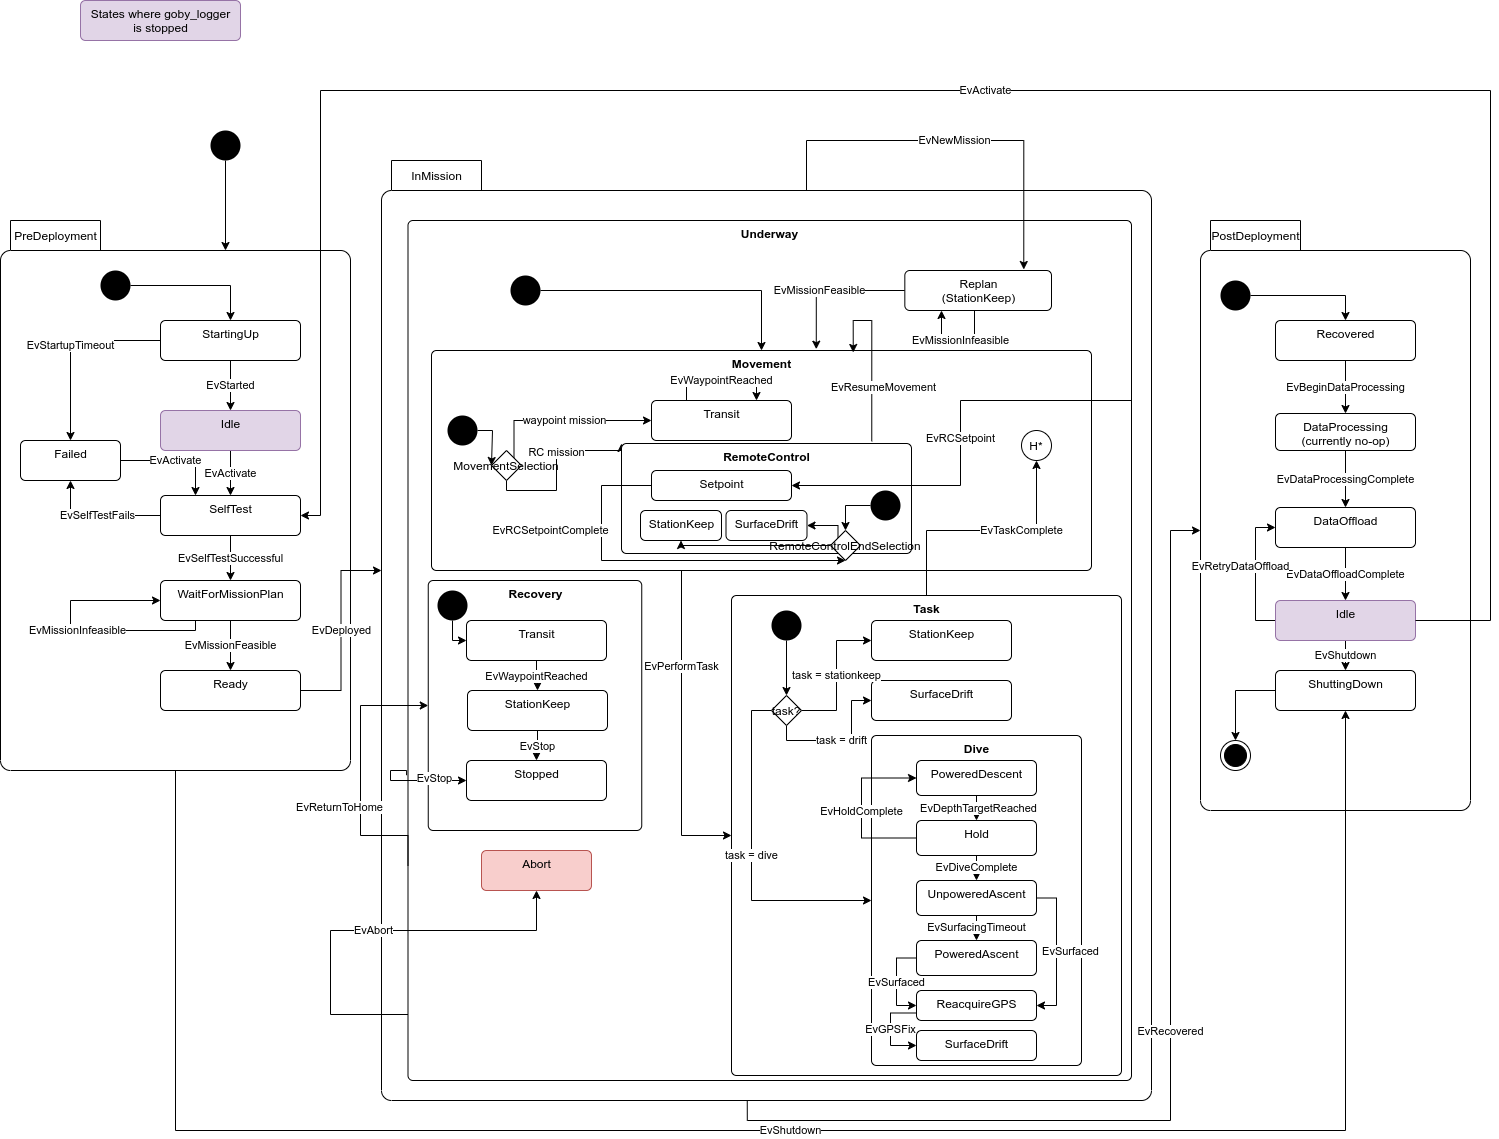
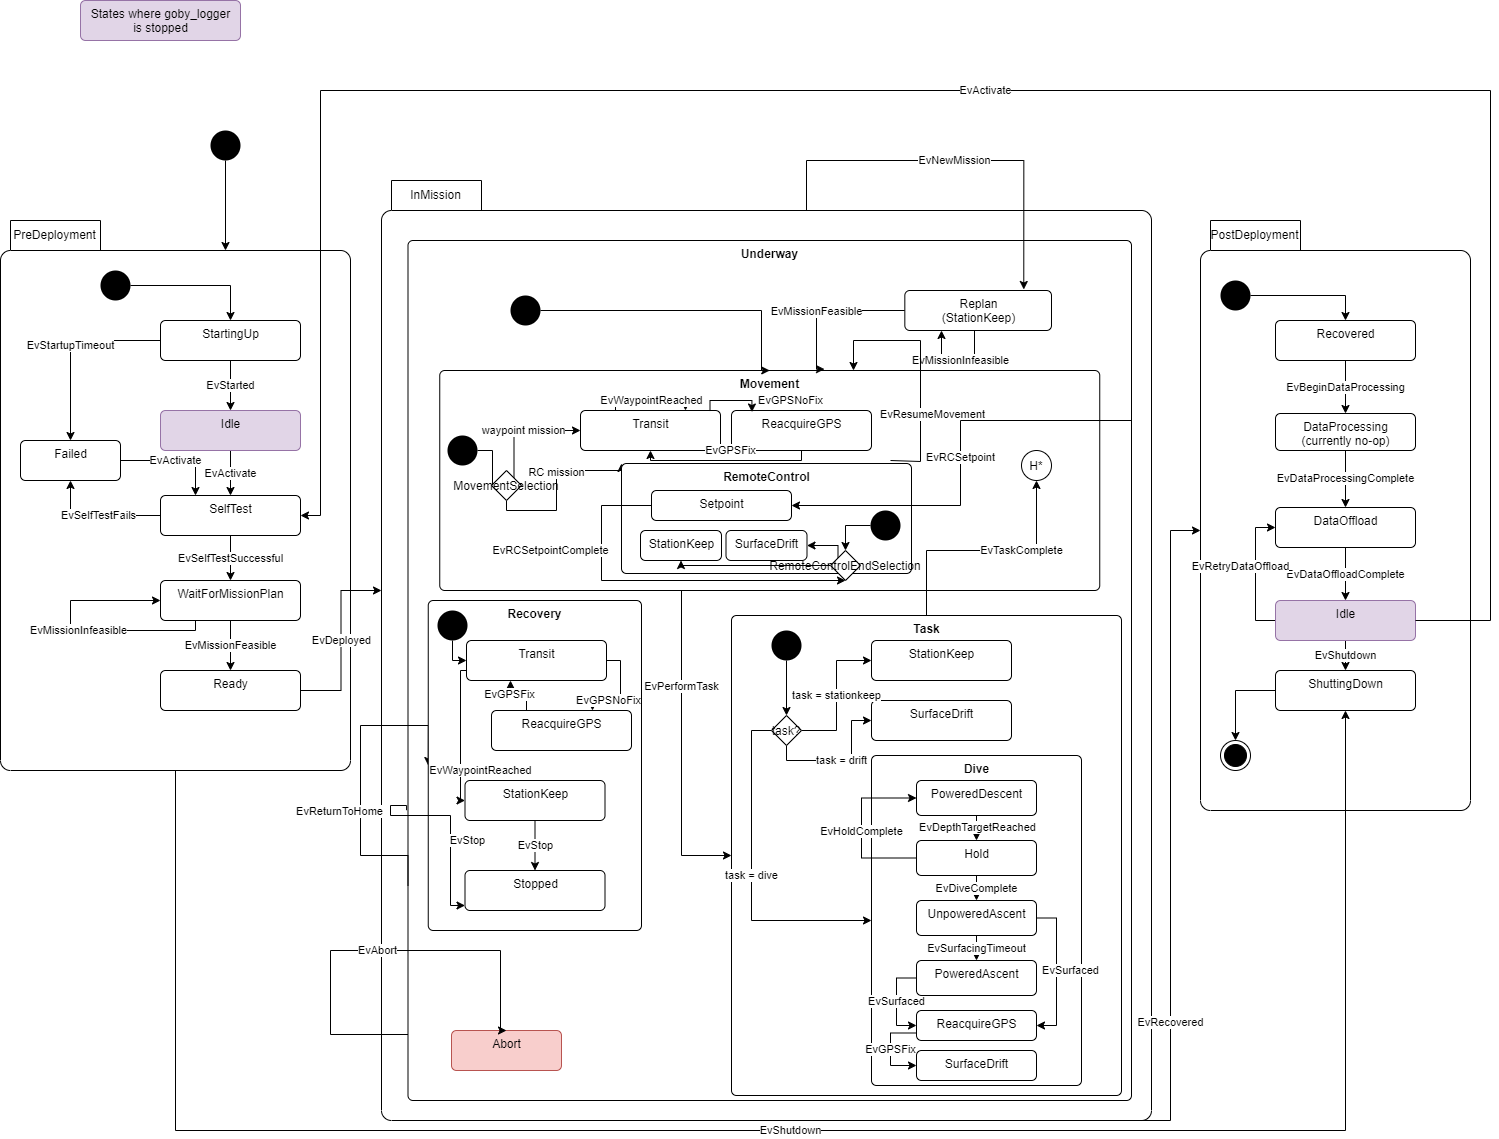
feature/Reacquire-GPS-In-Transit (#225)
* When bot is in transit mode, we check gps hdop to check if it is below 1, if not we go into reacquire gps state

* Updating documentation and then state machine so they match

* Updating state machine diagram

* Adding recovery states for transit and reacquire gps to ensure the state transitions occur base on hdop value

* Removing fusion commented out code

* Fixing logging outputs for gps fix

diff --git a/src/bin/mission_manager/app.cpp b/src/bin/mission_manager/app.cpp
@@ -238,41 +238,81 @@ jaiabot::apps::MissionManager::MissionManager()
     interprocess().subscribe<goby::middleware::groups::gpsd::tpv>(
         [this](const goby::middleware::protobuf::gpsd::TimePositionVelocity& tpv) {
             machine_->set_gps_tpv(tpv);
+        });
 
-            glog.is_debug2() && glog << "Received GPS mode: " << tpv.mode() << std::endl;
-
-            // Check mission state to make sure we are in reacquire_gps.
-            // This way the bot needs a configurable amount of checks for gps
-            // mode to be mode2d or mode3d in a row. If the gps mode deviates
-            // then the count resets.
-            if (machine_->state() == protobuf::IN_MISSION__UNDERWAY__TASK__DIVE__REACQUIRE_GPS)
+    // subscribe for GPS data (to reacquire after resurfacing)
+    interprocess().subscribe<goby::middleware::groups::gpsd::sky>(
+        [this](const goby::middleware::protobuf::gpsd::SkyView& sky) {
+            // Check mission state to make sure we are in reacquire_gps or transit.
+            if (machine_->state() == protobuf::IN_MISSION__UNDERWAY__MOVEMENT__TRANSIT ||
+                machine_->state() == protobuf::IN_MISSION__UNDERWAY__RECOVERY__TRANSIT ||
+                machine_->state() == protobuf::IN_MISSION__UNDERWAY__MOVEMENT__REACQUIRE_GPS ||
+                machine_->state() == protobuf::IN_MISSION__UNDERWAY__TASK__DIVE__REACQUIRE_GPS ||
+                machine_->state() == protobuf::IN_MISSION__UNDERWAY__RECOVERY__REACQUIRE_GPS)
             {
-                if (tpv.has_mode() &&
-                    (tpv.mode() == goby::middleware::protobuf::gpsd::TimePositionVelocity::Mode2D ||
-                     tpv.mode() == goby::middleware::protobuf::gpsd::TimePositionVelocity::Mode3D))
+                glog.is_debug2() && glog << "Received GPS HDOP: " << sky.hdop() << std::endl;
+
+                if (sky.has_hdop() && (sky.hdop() <= cfg().gps_hdop_fix()))
                 {
-                    // confirming gps is in the correct mode
-                    if (current_gps_check_incr_ < cfg().total_gps_checks())
+                    // Increment gps fix checks until we are > the threshold for confirming gps fix
+                    if (gps_fix_check_incr_ < cfg().total_gps_fix_checks())
                     {
-                        glog.is_debug2() && glog << "GPS is in the correct mode, but has not "
+                        glog.is_debug1() && glog << "GPS has a good fix, but has not "
                                                     "reached threshold for total checks"
-                                                 << std::endl;
-                        // Increment until we reach total gps checks
-                        current_gps_check_incr_++;
+                                                    " "
+                                                 << gps_fix_check_incr_ << " < "
+                                                 << cfg().total_gps_fix_checks() << std::endl;
+                        // Increment until we reach total gps fix checks
+                        gps_fix_check_incr_++;
                     }
                     else
                     {
-                        glog.is_debug2() && glog << "GPS has confirmed fix" << std::endl;
+                        glog.is_debug1() && glog << "GPS has a good fix, Post EvGPSFix, hdop is "
+                                                 << sky.hdop() << " <= " << cfg().gps_hdop_fix()
+                                                 << " Reset incr for gps degraded fix" << std::endl;
+
+                        // Post Event for gps fix
                         machine_->process_event(statechart::EvGPSFix());
+
+                        // Reset degraded fix check as we received hdop below cfg().gps_hdop_fix()
+                        gps_degraded_fix_check_incr_ = 1;
                     }
                 }
                 else
                 {
-                    glog.is_debug2() && glog << "Reset GPS check incrementor, wrong mode: "
-                                             << tpv.mode() << std::endl;
-                    // Reset if gps in not incorrect state
-                    current_gps_check_incr_ = 0;
+                    // Increment degraded checks until we are > the threshold for confirming degraded gps
+                    if (gps_degraded_fix_check_incr_ < cfg().total_gps_degraded_fix_checks())
+                    {
+                        glog.is_debug1() && glog << "GPS has a degraded fix, but has not "
+                                                    "reached threshold for total checks: "
+                                                    " "
+                                                 << gps_degraded_fix_check_incr_ << " < "
+                                                 << cfg().total_gps_degraded_fix_checks()
+                                                 << std::endl;
+
+                        // Increment until we reach total gps degraded fix checks
+                        gps_degraded_fix_check_incr_++;
+                    }
+                    else
+                    {
+                        glog.is_debug1() &&
+                            glog << "GPS has a degraded fix, Post EvGPSNoFix, hdop is "
+                                 << sky.hdop() << " > " << cfg().gps_hdop_fix()
+                                 << " Reset incr for gps fix" << std::endl;
+
+                        // Post Event for no gps fix
+                        machine_->process_event(statechart::EvGPSNoFix());
+
+                        // Reset if gps hdop is above cfg().gps_hdop_fix()
+                        gps_fix_check_incr_ = 1;
+                    }
                 }
+            }
+            else
+            {
+                // Reset when not in states to check
+                gps_fix_check_incr_ = 1;
+                gps_degraded_fix_check_incr_ = 1;
             }
         });
 }

diff --git a/src/bin/mission_manager/machine.h b/src/bin/mission_manager/machine.h
@@ -87,6 +87,7 @@ STATECHART_EVENT(EvHoldComplete)
 STATECHART_EVENT(EvSurfacingTimeout)
 STATECHART_EVENT(EvSurfaced)
 STATECHART_EVENT(EvGPSFix)
+STATECHART_EVENT(EvGPSNoFix)
 
 STATECHART_EVENT(EvLoop)
 struct EvVehicleDepth : boost::statechart::event<EvVehicleDepth>
@@ -164,6 +165,7 @@ namespace movement
 struct MovementSelection;
 
 struct Transit;
+struct ReacquireGPS;
 struct RemoteControl;
 namespace remotecontrol
 {
@@ -198,6 +200,7 @@ struct Recovery;
 namespace recovery
 {
 struct Transit;
+struct ReacquireGPS;
 struct StationKeep;
 struct Stopped;
 } // namespace recovery
@@ -517,6 +520,25 @@ struct Underway : boost::statechart::state<Underway, InMission, underway::Moveme
 
 namespace underway
 {
+// Base class for all Task ReacquireGPS as these do nearly the same thing.
+// "Derived" MUST be a child state of Task
+template <typename Derived, typename Parent, jaiabot::protobuf::MissionState state>
+struct ReacquireGPSTaskCommon : boost::statechart::state<Derived, Parent>,
+                                Notify<Derived, state, protobuf::SETPOINT_STOP>
+{
+    using StateBase = boost::statechart::state<Derived, Parent>;
+    ReacquireGPSTaskCommon(typename StateBase::my_context c) : StateBase(c)
+    {
+        if (this->app().is_test_mode(config::MissionManager::ENGINEERING_TEST__INDOOR_MODE__NO_GPS))
+        {
+            // in indoor mode, simply post that we've received a fix
+            // (even though we haven't as there's no GPS)
+            this->post_event(statechart::EvGPSFix());
+        }
+    };
+    ~ReacquireGPSTaskCommon(){};
+};
+
 struct Replan : boost::statechart::state<Replan, Underway>,
                 Notify<Replan, protobuf::IN_MISSION__UNDERWAY__REPLAN,
                        protobuf::SETPOINT_IVP_HELM // stationkeep
@@ -601,8 +623,24 @@ struct Transit : boost::statechart::state<Transit, Movement>,
         post_event(EvPerformTask());
     }
 
-    using reactions = boost::statechart::in_state_reaction<EvWaypointReached, Transit,
-                                                           &Transit::waypoint_reached>;
+    using reactions =
+        boost::mpl::list<boost::statechart::in_state_reaction<EvWaypointReached, Transit,
+                                                              &Transit::waypoint_reached>,
+                         boost::statechart::transition<EvGPSNoFix, ReacquireGPS>>;
+};
+
+struct ReacquireGPS
+    : ReacquireGPSTaskCommon<ReacquireGPS, Movement,
+                             protobuf::IN_MISSION__UNDERWAY__MOVEMENT__REACQUIRE_GPS>
+{
+    ReacquireGPS(typename StateBase::my_context c)
+        : ReacquireGPSTaskCommon<ReacquireGPS, Movement,
+                                 protobuf::IN_MISSION__UNDERWAY__MOVEMENT__REACQUIRE_GPS>(c)
+    {
+    }
+    ~ReacquireGPS(){};
+
+    using reactions = boost::mpl::list<boost::statechart::transition<EvGPSFix, Transit>>;
 };
 
 struct RemoteControl
@@ -1019,13 +1057,20 @@ struct PoweredAscent
 };
 
 struct ReacquireGPS
-    : boost::statechart::state<ReacquireGPS, Dive>,
-      Notify<ReacquireGPS, protobuf::IN_MISSION__UNDERWAY__TASK__DIVE__REACQUIRE_GPS,
-             protobuf::SETPOINT_STOP>
+    : ReacquireGPSTaskCommon<ReacquireGPS, Dive,
+                             protobuf::IN_MISSION__UNDERWAY__TASK__DIVE__REACQUIRE_GPS>
 {
-    using StateBase = boost::statechart::state<ReacquireGPS, Dive>;
-    ReacquireGPS(typename StateBase::my_context c);
-    ~ReacquireGPS();
+    ReacquireGPS(typename StateBase::my_context c)
+        : ReacquireGPSTaskCommon<ReacquireGPS, Dive,
+                                 protobuf::IN_MISSION__UNDERWAY__TASK__DIVE__REACQUIRE_GPS>(c)
+    {
+    }
+    ~ReacquireGPS()
+    {
+        end_time_ = goby::time::SystemClock::now<goby::time::MicroTime>();
+        context<Dive>().dive_packet().set_duration_to_acquire_gps_with_units(end_time_ -
+                                                                             start_time_);
+    };
 
     using reactions = boost::mpl::list<boost::statechart::transition<EvGPSFix, SurfaceDrift>>;
 
@@ -1072,7 +1117,22 @@ struct Transit : boost::statechart::state<Transit, Recovery>,
     ~Transit();
 
     using reactions =
-        boost::mpl::list<boost::statechart::transition<EvWaypointReached, StationKeep>>;
+        boost::mpl::list<boost::statechart::transition<EvWaypointReached, StationKeep>,
+                         boost::statechart::transition<EvGPSNoFix, ReacquireGPS>>;
+};
+
+struct ReacquireGPS
+    : ReacquireGPSTaskCommon<ReacquireGPS, Recovery,
+                             protobuf::IN_MISSION__UNDERWAY__RECOVERY__REACQUIRE_GPS>
+{
+    ReacquireGPS(typename StateBase::my_context c)
+        : ReacquireGPSTaskCommon<ReacquireGPS, Recovery,
+                                 protobuf::IN_MISSION__UNDERWAY__RECOVERY__REACQUIRE_GPS>(c)
+    {
+    }
+    ~ReacquireGPS(){};
+
+    using reactions = boost::mpl::list<boost::statechart::transition<EvGPSFix, Transit>>;
 };
 
 struct StationKeep : boost::statechart::state<StationKeep, Recovery>,

diff --git a/src/bin/simulator/simulator.cpp b/src/bin/simulator/simulator.cpp
@@ -45,6 +45,8 @@
 #include "jaiabot/messages/high_control.pb.h"
 #include "jaiabot/messages/imu.pb.h"
 #include "jaiabot/messages/low_control.pb.h"
+#include <goby/middleware/gpsd/groups.h>
+#include <goby/middleware/protobuf/gpsd.pb.h>
 
 using goby::glog;
 namespace si = boost::units::si;
@@ -93,6 +95,9 @@ class SimulatorTranslation : public goby::moos::Translator
     std::default_random_engine generator_;
     std::normal_distribution<double> temperature_distribution_;
     std::normal_distribution<double> salinity_distribution_;
+    goby::time::SteadyClock::time_point sky_last_updated_{std::chrono::seconds(0)};
+    int time_out_sky_ = 1;
+    double hdop_rand_max_ = 1;
 };
 
 class Simulator : public zeromq::MultiThreadApplication<config::Simulator>
@@ -174,6 +179,8 @@ jaiabot::apps::SimulatorTranslation::SimulatorTranslation(
         temperature_degC_profile_[sample.depth_with_units()] = sample.temperature();
         salinity_profile_[sample.depth_with_units()] = sample.salinity();
     }
+
+    hdop_rand_max_ = sim_cfg_.gps_hdop_rand_max();
 }
 
 void jaiabot::apps::SimulatorTranslation::process_nav(const CMOOSMsg& msg)
@@ -246,6 +253,20 @@ void jaiabot::apps::SimulatorTranslation::process_nav(const CMOOSMsg& msg)
         auto io_data = std::make_shared<goby::middleware::protobuf::IOData>();
         io_data->set_data(hdt.serialize().message_cr_nl());
         interthread().publish<gps_udp_out>(io_data);
+    }
+
+    // publish gps sky data
+    if (sky_last_updated_ + std::chrono::seconds(time_out_sky_) < now)
+    {
+        goby::middleware::protobuf::gpsd::SkyView sky;
+
+        double hdop;
+        std::srand(unsigned(std::time(NULL)));
+        hdop = (double)std::rand() / (RAND_MAX)*hdop_rand_max_;
+
+        sky.set_hdop(hdop);
+        interprocess().publish<goby::middleware::groups::gpsd::sky>(sky);
+        sky_last_updated_ = goby::time::SteadyClock::now();
     }
 
     // publish pressure as UDP message for bar30 driver

diff --git a/src/bin/mission_manager/machine.cpp b/src/bin/mission_manager/machine.cpp
@@ -683,25 +683,6 @@ void jaiabot::statechart::inmission::underway::task::dive::PoweredAscent::depth(
             << std::endl;
 }
 
-// Dive::ReacquireGPS
-jaiabot::statechart::inmission::underway::task::dive::ReacquireGPS::ReacquireGPS(
-    typename StateBase::my_context c)
-    : StateBase(c)
-{
-    if (this->app().is_test_mode(config::MissionManager::ENGINEERING_TEST__INDOOR_MODE__NO_GPS))
-    {
-        // in indoor mode, simply post that we've received a fix
-        // (even though we haven't as there's no GPS)
-        post_event(statechart::EvGPSFix());
-    }
-}
-
-jaiabot::statechart::inmission::underway::task::dive::ReacquireGPS::~ReacquireGPS()
-{
-    end_time_ = goby::time::SystemClock::now<goby::time::MicroTime>();
-    context<Dive>().dive_packet().set_duration_to_acquire_gps_with_units(end_time_ - start_time_);
-}
-
 // Task::StationKeep
 jaiabot::statechart::inmission::underway::task::StationKeep::StationKeep(
     typename StateBase::my_context c)

diff --git a/src/bin/fusion/fusion.cpp b/src/bin/fusion/fusion.cpp
@@ -213,17 +213,6 @@ jaiabot::apps::Fusion::Fusion() : ApplicationBase(2 * si::hertz)
                      << "  Magnetic declination: " << magneticDeclination << endl;
             heading = heading + magneticDeclination * degrees;
 
-            // Have to make sure it's within the DCCL domain
-            //if (heading < 0 * boost::units::degree::degrees)
-            //    heading += 360 * boost::units::degree::degrees;
-            //if (heading > 360 * boost::units::degree::degrees)
-            //    heading -= 360 * boost::units::degree::degrees;
-
-            /*if (heading > 360 * degrees)
-            {
-                heading -= (360 * degrees);
-            }*/
-
             heading = corrected_heading(heading);
 
             latest_node_status_.mutable_pose()->set_heading_with_units(heading);

diff --git a/src/bin/mission_manager/mission_manager.h b/src/bin/mission_manager/mission_manager.h
@@ -53,7 +53,8 @@ class MissionManager : public goby::zeromq::MultiThreadApplication<config::Missi
     boost::units::quantity<boost::units::degree::plane_angle> latest_lat_{
         45 * boost::units::degree::degrees};
 
-    uint32_t current_gps_check_incr_{0};
+    uint32_t gps_fix_check_incr_{1};
+    uint32_t gps_degraded_fix_check_incr_{1};
 };
 
 } // namespace apps

diff --git a/src/doc/markdown/page60_mission_management.md b/src/doc/markdown/page60_mission_management.md
@@ -24,6 +24,7 @@ The goal is to keep the state machine as simple as possible while still supporti
 	- Underway: To be performed while the bot is in the water. (Use Cases: "Mission", "Recovery")
 		+ Movement: Bot is moving to the next Task.
 			* Transit: Bot is transiting to the next waypoint autonomously using the pHelmIvP Waypoint behavior.
+			* ReacquireGPS: Bot is waiting (on the surface) for the GPS to reacquire a fix.
 			* RemoteControl: Bot is accepting RC setpoints from the UI. When RC commands aren't being received (for any reason), the bot is controlled by an underlying pHelmIvP StationKeep behavior that activates on the current bot location.
 				- Setpoint: Bot is performing a RC setpoint (heading, speed up to a given duration)
 				- StationKeep: Bot is stationkeeping while waiting for the next Setpoint.
@@ -42,6 +43,7 @@ The goal is to keep the state machine as simple as possible while still supporti
 			* ...: Can be expanded in the future for other types of Tasks.
 		+ Recovery: Bot is returning to a safe location for recovery.
 			* Transit: Bot is transiting to the recovery location.
+			* ReacquireGPS: Bot is waiting (on the surface) for the GPS to reacquire a fix.
 			* StationKeep: Bot is actively maintaining the recovery location position.
 			* Stopped: Control surfaces are stopped for a safe recovery.
 		+ Replan: Bot has received a new mission and is assessing feasibility. The bot stationkeeps while in this state.
@@ -96,6 +98,7 @@ Events are what drives the changes in states. Some events are triggered by the o
 - EvDataOffloadComplete: Triggered by the DataOffload state when the data have all been offloaded to hub0.
 - EvRetryDataOffload:  Triggered when the operator sends Command type: RETRY_DATA_OFFLOAD
 - EvGPSFix: GPS Fix received
+- EvGPSNoFix: GPS No Fix received
 
 #### Internal events
 
